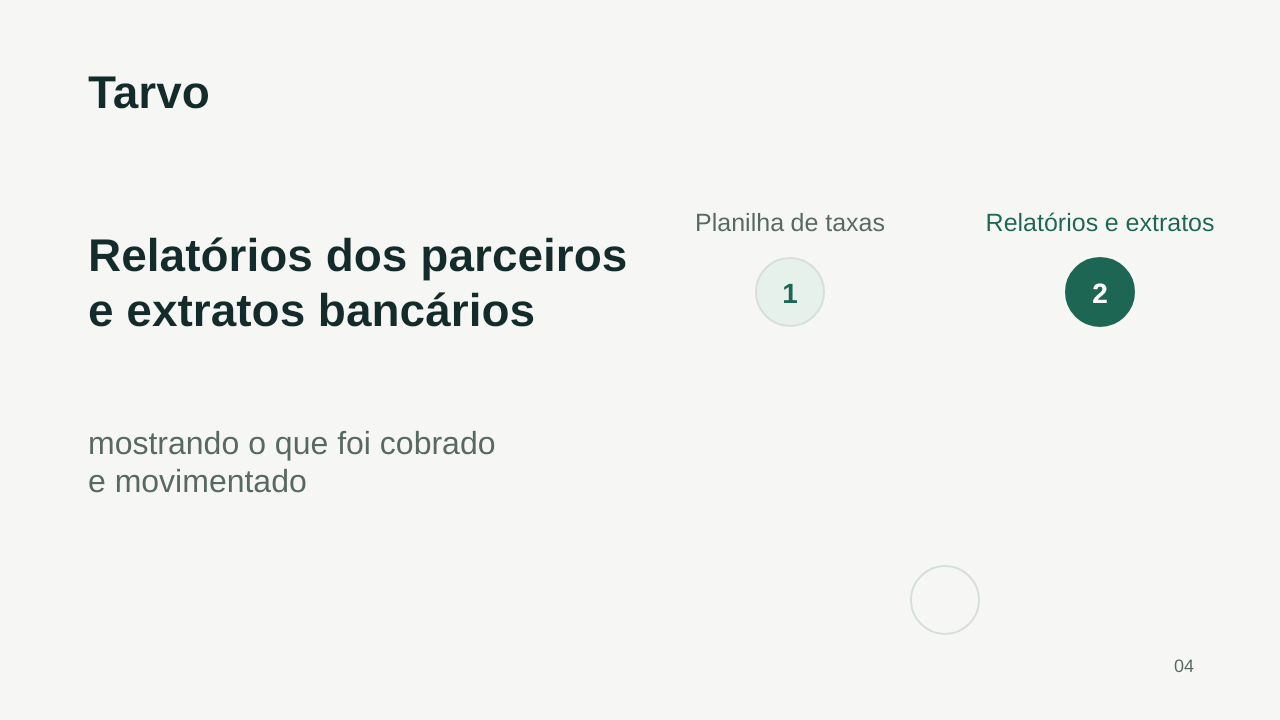
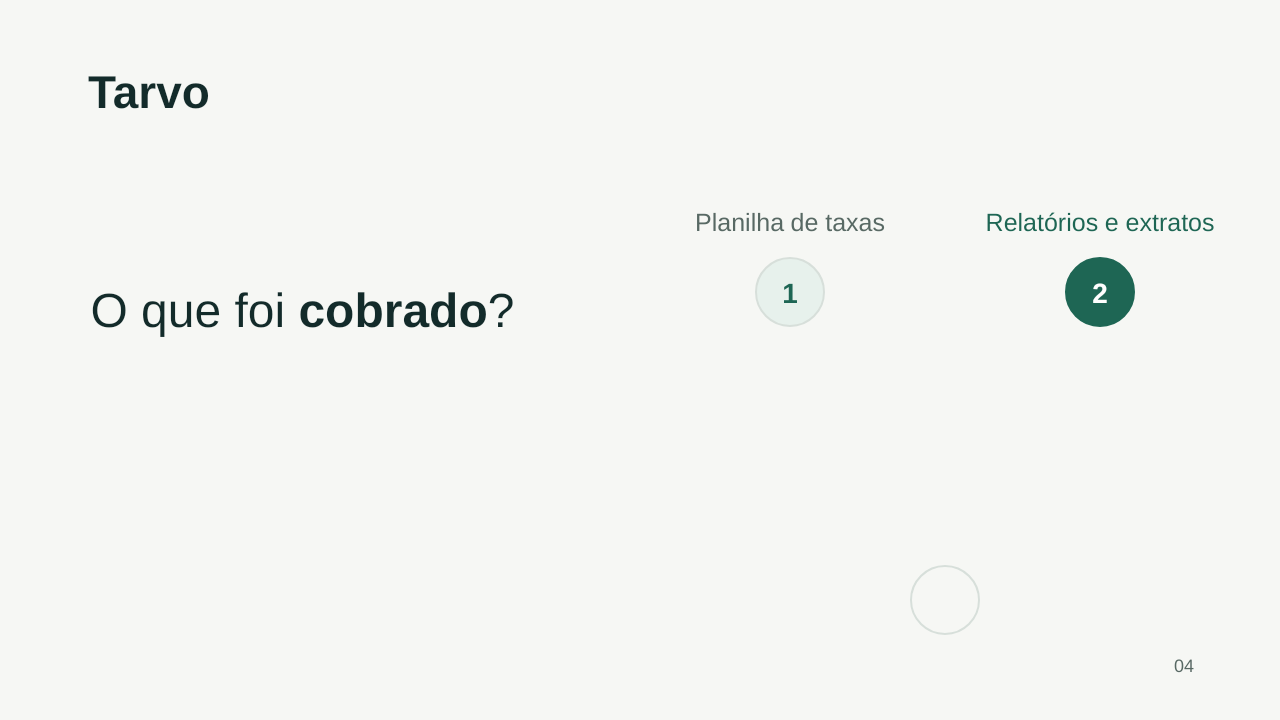
feat(apresentacao): desenvolver solução e arquitetura agêntica até decisão humana

Changed region(s): [[0.0625, 0.3361, 0.5, 0.4583], [0.0625, 0.5806, 0.4062, 0.7028]]

diff --git a/docs/apresentacao/slides/README.md b/docs/apresentacao/slides/README.md
@@ -1,8 +1,8 @@
-# Abertura do pitch Lastro
+# Slides do pitch Lastro
 
-Primeira versão visual para revisar a direção da apresentação: dez slides, correspondentes aos avanços 0 a 9 do [roteiro](../roteiro.md). O material cobre a capa e o problema. A continuação da solução e da arquitetura permanece no roteiro, para desenvolvimento depois da revisão desta abertura.
+Versão visual editável com 26 slides, correspondentes aos avanços 0 a 25 do [roteiro](../roteiro.md). O material cobre capa, problema, entrada da solução, apuração e arquitetura agêntica até a decisão humana. A extensão não sobrescreveu os slides 0 a 9; as edições feitas na abertura durante a revisão foram preservadas. O uso completo na interface e a continuidade entre competências permanecem no roteiro, para uma próxima etapa.
 
-![Visão geral dos dez slides](previews/overview.png)
+![Visão geral dos 26 slides](previews/overview.png)
 
 ## Sequência
 
@@ -18,16 +18,48 @@ Primeira versão visual para revisar a direção da apresentação: dez slides, 
 | 7 | [O que precisa corrigir](previews/07.png) | Segunda pergunta acrescentada à primeira |
 | 8 | [Valores pendentes](previews/08.png) | Terceira pergunta acrescentada às anteriores |
 | 9 | [Consequências](previews/09.png) | Oito dias úteis, cobranças incorretas e dependência das regras tácitas |
+| 10 | [Regra da operação](previews/10.png) | Contrato, vigência e vínculo do estorno à venda original |
+| 11 | [Entrada do Lastro](previews/11.png) | Pausa para apresentar a solução |
+| 12 | [Definição](previews/12.png) | Gerenciador inteligente do fechamento financeiro e o trabalho que ele organiza |
+| 13 | [Arquivos](previews/13.png) | Orbe e ajustes, Ponte, taxas, contas e bancos |
+| 14 | [Cruzamento](previews/14.png) | Operação ligada a lojista, condição aplicável e orientação do financeiro |
+| 15 | [Checkout](previews/15.png) | Comissão contratada e comparação das taxas |
+| 16 | [Remessas](previews/16.png) | Participação no spread elegível, duplicidades e contestação |
+| 17 | [Bancos](previews/17.png) | Conta proposta, justificativa e origem |
+| 18 | [Entregas](previews/18.png) | Três frentes convergem para seis saídas |
+| 19 | [Rastro](previews/19.png) | Resultado, operações, regra e arquivo de origem |
+| 20 | [Rota Global](previews/20.png) | Diferença líquida preparada para revisão e uma operação que a compõe |
+| 21 | [Arquitetura agêntica](previews/21.png) | Entrada explícita na investigação assistida, apoiada na apuração |
+| 22 | [Pacote do caso](previews/22.png) | Valor, origens, contexto e responsabilidade |
+| 23 | [Investigador](previews/23.png) | Consulta às fontes cadastradas por ferramentas de leitura |
+| 24 | [Crítico](previews/24.png) | Mesmo pacote, interpretação e evidências recebidas |
+| 25 | [Decisão humana](previews/25.png) | Parecer encaminhado ao responsável, com o limite experimental visível |
 
 ## Composição
 
-Canvas 1280 × 720, proporção 16:9. Fundo claro e verde vêm dos tokens do Lastro; capa e consequências usam o verde escuro. A tipografia é Arial. Os diagramas, textos e conectores são objetos nativos editáveis da apresentação. A marca Lastro é o SVG original do repositório, com proporção preservada.
+Canvas 1280 × 720, proporção 16:9. Fundo claro e verde vêm dos tokens do Lastro; capa, consequências e entrada na arquitetura usam o verde escuro. A tipografia é Arial. Os diagramas, textos e conectores são objetos nativos editáveis da apresentação. A marca Lastro usa os SVGs originais do repositório, com proporção preservada.
 
-Os slides são estados sucessivos da composição. Há um avanço para cada frente e para cada pergunta, com destaque no assunto novo. Esta versão não configura animação automática entre posições.
+Os slides são estados sucessivos da composição. Há um tópico principal por avanço, com destaque no assunto novo. A apuração acrescenta uma frente de cada vez; a arquitetura mantém as posições e acrescenta pacote do caso, investigador, crítico e decisão humana. Esta versão não configura animação automática entre posições.
 
 **Asset pendente:** a identificação “Tarvo” é texto provisório. Substituir pela logo confirmada, preservando sua posição entre os avanços 1 e 2. Helena aparece pelo nome, sem retrato atribuído a uma pessoa real.
 
-O prazo de oito dias úteis descreve o processo relatado no case. A sequência ainda não apresenta resultado ou economia alcançada pelo Lastro. As fontes do relato e a fala correspondente acompanham as notas dos slides.
+O prazo de oito dias úteis descreve o processo relatado no case. Os valores da Rota Global são uma apuração preparada para revisão; não representam recuperação ou economia já alcançada. As fontes e a fala em bullets acompanham as notas dos slides.
+
+## Relações da arquitetura
+
+- A apuração produz os valores e o rastro que compõem o pacote do caso.
+- O investigador recebe o pacote e consulta fontes cadastradas por ferramentas de leitura.
+- O crítico recebe o mesmo pacote, a interpretação e as evidências recuperadas. O canal tracejado destaca a entrada do pacote; o crítico não recebe uma conexão de busca às fontes nesta implementação.
+- O parecer segue para revisão e decisão de Helena ou Comercial, conforme a responsabilidade do caso. A investigação preserva os valores da apuração.
+- O destaque verde indica o tópico atual. O slide final explicita que o parecer é experimental e a decisão financeira cabe ao responsável.
+
+## Evidência financeira e base técnica
+
+O exemplo do slide 20 foi conferido no [pacote Rota atualizado em `b43e80e`](https://github.com/DavidDeodato/Hackathon_barte/blob/b43e80e521646cc46b09e8f2c920fb035c20644d/saida/rota_packet.json), execução `close-2068e24a102ebea3`. Os 87 componentes somam R$ 1.644,72 positivos e R$ 98,44 negativos, resultando em R$ 1.546,28. A operação `TX88423647`, linha 749 do relatório Orbe, contribui com R$ 66,28 e registra taxa contratada de 3,59% e aplicada de 4,09%.
+
+O [commit `b43e80e`](https://github.com/DavidDeodato/Hackathon_barte/commit/b43e80e521646cc46b09e8f2c920fb035c20644d) incorpora os ajustes tardios e publica as saídas atualizadas. A revisão desta apresentação conferiu as fontes publicadas e a soma dos componentes do exemplo; não reexecutou o fechamento financeiro nem uma chamada ao modelo. O slide é uma representação nativa dos dados, sem simular uma captura da interface. As fontes em commit imutável estão nas notas.
+
+A camada de revisão continua experimental. A consulta do código sustenta as responsabilidades desenhadas, sem demonstrar qualidade semântica ou benefício medido do crítico.
 
 ## Fonte editável e reprodução
 
@@ -39,5 +71,9 @@ O prazo de oito dias úteis descreve o processo relatado no case. A sequência a
 4. Renderizar e conferir os dez slides. Usar a mesma sessão para corrigir o documento existente.
 
 O callback preserva slides que já tenham formas e não os sobrescreve ao repetir um lote. `refineIntro` registra o ajuste aplicado aos slides 1 e 2 da primeira versão, usando os IDs retornados pela inspeção; a construção inicial já inclui essa composição ajustada.
+
+As revisões visuais da abertura foram incorporadas à fonte: destaque em “Planilha” e “cada lojista” no slide 3, pergunta “O que foi cobrado?” no slide 4 e “Entre pontas, uma única pessoa” no slide 5. A fala completa continua nas notas. O documento editável é a referência para preservar edições feitas diretamente no visualizador.
+
+[solucao-arquitetura.mjs](solucao-arquitetura.mjs) exporta `buildContinuation` para continuar na mesma sessão, depois dos dez slides de abertura. Executar em lotes consecutivos, aguardando cada chamada terminar: `[10, 11, 12, 13, 14]`, `[15, 16, 17, 18]`, `[19, 20, 21]` e `[22, 23, 24, 25]`. Usar `input.indices` para o lote e, no primeiro, `input.logoPath` apontando para `web/public/brand/lastro-logo.svg`. O callback preserva qualquer slide existente e recusa lacunas de numeração. Reparos posteriores usam os IDs inspecionados da mesma apresentação.
 
 As imagens em `previews/` são capturas renderizadas da apresentação editável. Servem à revisão visual no repositório e precisam ser atualizadas quando o documento mudar.

diff --git a/docs/apresentacao/README.md b/docs/apresentacao/README.md
@@ -6,20 +6,20 @@ Base de trabalho para desenvolver o pitch e os slides sobre o fechamento finance
 
 - [Direção e roteiro](roteiro.md): capa e abertura dos slides 0 a 9; continuação proposta dos slides 10 a 31, com definição do Lastro, explicação por tópicos, arquitetura progressiva e relação setembro/outubro.
 - [Referências de apresentação](referencias.md): padrões observados na Barte, aplicações possíveis e limites da referência.
-- [Abertura visual](slides/README.md): primeira versão dos dez slides iniciais, com prévias e fonte de construção da apresentação editável.
+- [Slides em desenvolvimento](slides/README.md): 26 slides até a arquitetura agêntica e a decisão humana, com prévias e fontes de construção da apresentação editável.
 - [Orientações do desafio](../../contexto/instrucoes_extraidas.txt): requisitos usados como fonte, sujeitos à conferência com a organização.
 - [Respostas do financeiro](../../contexto/RESPOSTAS_FINANCEIRO.md): contexto recebido sobre regras e decisões do fechamento.
 - [Estado do produto](../../README.md): execução, validação e limites da implementação.
 
 ## Como avançar
 
-Desenvolver primeiro a capa e a abertura já descritas no roteiro. Preservar a progressão das três frentes, a presença de Helena e a revelação de uma pergunta por avanço. A continuação já propõe um tópico principal por slide, com bullets de fala e instruções de composição; a produção visual e o ensaio ainda precisam ser realizados.
+A capa, a abertura e a continuação até a arquitetura já estão desenvolvidas nos slides 0 a 25. Preservar a progressão das três frentes, a presença de Helena e a revelação de um tópico por avanço. Desenvolver em seguida o uso completo na interface, as pendências e a continuidade dos slides 26 a 31. O ensaio com a aplicação e a validação do tempo ainda precisam ser realizados.
 
-Depois da entrada, definir o Lastro em uma frase. Explicar recebimento, cruzamento, apuração e rastro antes de entrar na arquitetura agêntica. Nesse bloco, anunciar a mudança de assunto e revelar pacote do caso, investigador, crítico e revisão humana em avanços sucessivos.
+Depois da entrada, definir o Lastro como gerenciador inteligente do fechamento financeiro e descrever o trabalho que ele organiza. Explicar recebimento, cruzamento, apuração e rastro antes de entrar na arquitetura agêntica. Nesse bloco, anunciar a mudança de assunto e revelar pacote do caso, investigador, crítico e revisão humana em avanços sucessivos.
 
 Setembro é a competência que o desafio exige fechar, incluindo os ajustes tardios obrigatórios. Outubro testa o reaproveitamento do processo e a continuidade de obrigações e decisões entre competências. Conferir os resultados atualizados de setembro precede o plano de evolução do produto.
 
-A logo confirmada da Tarvo, a identificação do time e a representação de Helena continuam pendentes. Usar os estados e valores efetivos do produto na demonstração. Qualificar propostas, investigações experimentais e pendências para que não sejam apresentadas como decisões aprovadas ou dinheiro recuperado.
+A logo confirmada da Tarvo e a identificação do time continuam pendentes. Helena aparece pelo nome na primeira versão. Usar os estados e valores efetivos do produto na demonstração. Qualificar propostas, investigações experimentais e pendências para que não sejam apresentadas como decisões aprovadas ou dinheiro recuperado.
 
 ## Versionamento durante a produção
 
@@ -36,6 +36,6 @@ Preservar os commits existentes. Publicar alterações em branch própria e inte
 
 ## Base desta documentação
 
-Incorporada sobre a `main` em `59ee5c8`, de 17/10/2026. A última mudança de aplicação considerada no roteiro é `93ffa23`, que integrou a mesa de casos à interface principal; `59ee5c8` acrescenta registros públicos de conversas. A conferência técnica da interface foi estática. Uma demonstração deve ser ensaiada na versão efetivamente utilizada.
+Incorporada sobre a `main` em `59ee5c8`, de 17/10/2026. O commit `93ffa23` integrou a mesa de casos à interface principal; `59ee5c8` acrescenta registros públicos de conversas. A conferência técnica da interface foi estática. Uma demonstração deve ser ensaiada na versão efetivamente utilizada.
 
-Na revisão do roteiro, também foram consultadas remotamente as atualizações documentais até [`7d22eb1`](https://github.com/DavidDeodato/Hackathon_barte/commit/7d22eb10d5cdf8d85275eb6bf2c07e4eb93a3db8): ajustes tardios recebidos, com promoção das saídas recalculadas ainda pendente de conferência naquele registro. Esses commits remotos não foram integrados automaticamente à branch local. Ver a fonte e os cuidados de atualização no slide 29.
+Na construção da continuação visual, foram consultadas remotamente as atualizações até [`b43e80e`](https://github.com/DavidDeodato/Hackathon_barte/commit/b43e80e521646cc46b09e8f2c920fb035c20644d), que incorpora os ajustes tardios e publica novas saídas. O pacote Rota confirma o líquido de R$ 1.546,28 preparado para revisão. O aviso anterior de revisão pendente, baseado em `7d22eb1`, foi atualizado no roteiro. Os commits remotos foram inspecionados como fontes; não foram integrados automaticamente à branch local da apresentação.
